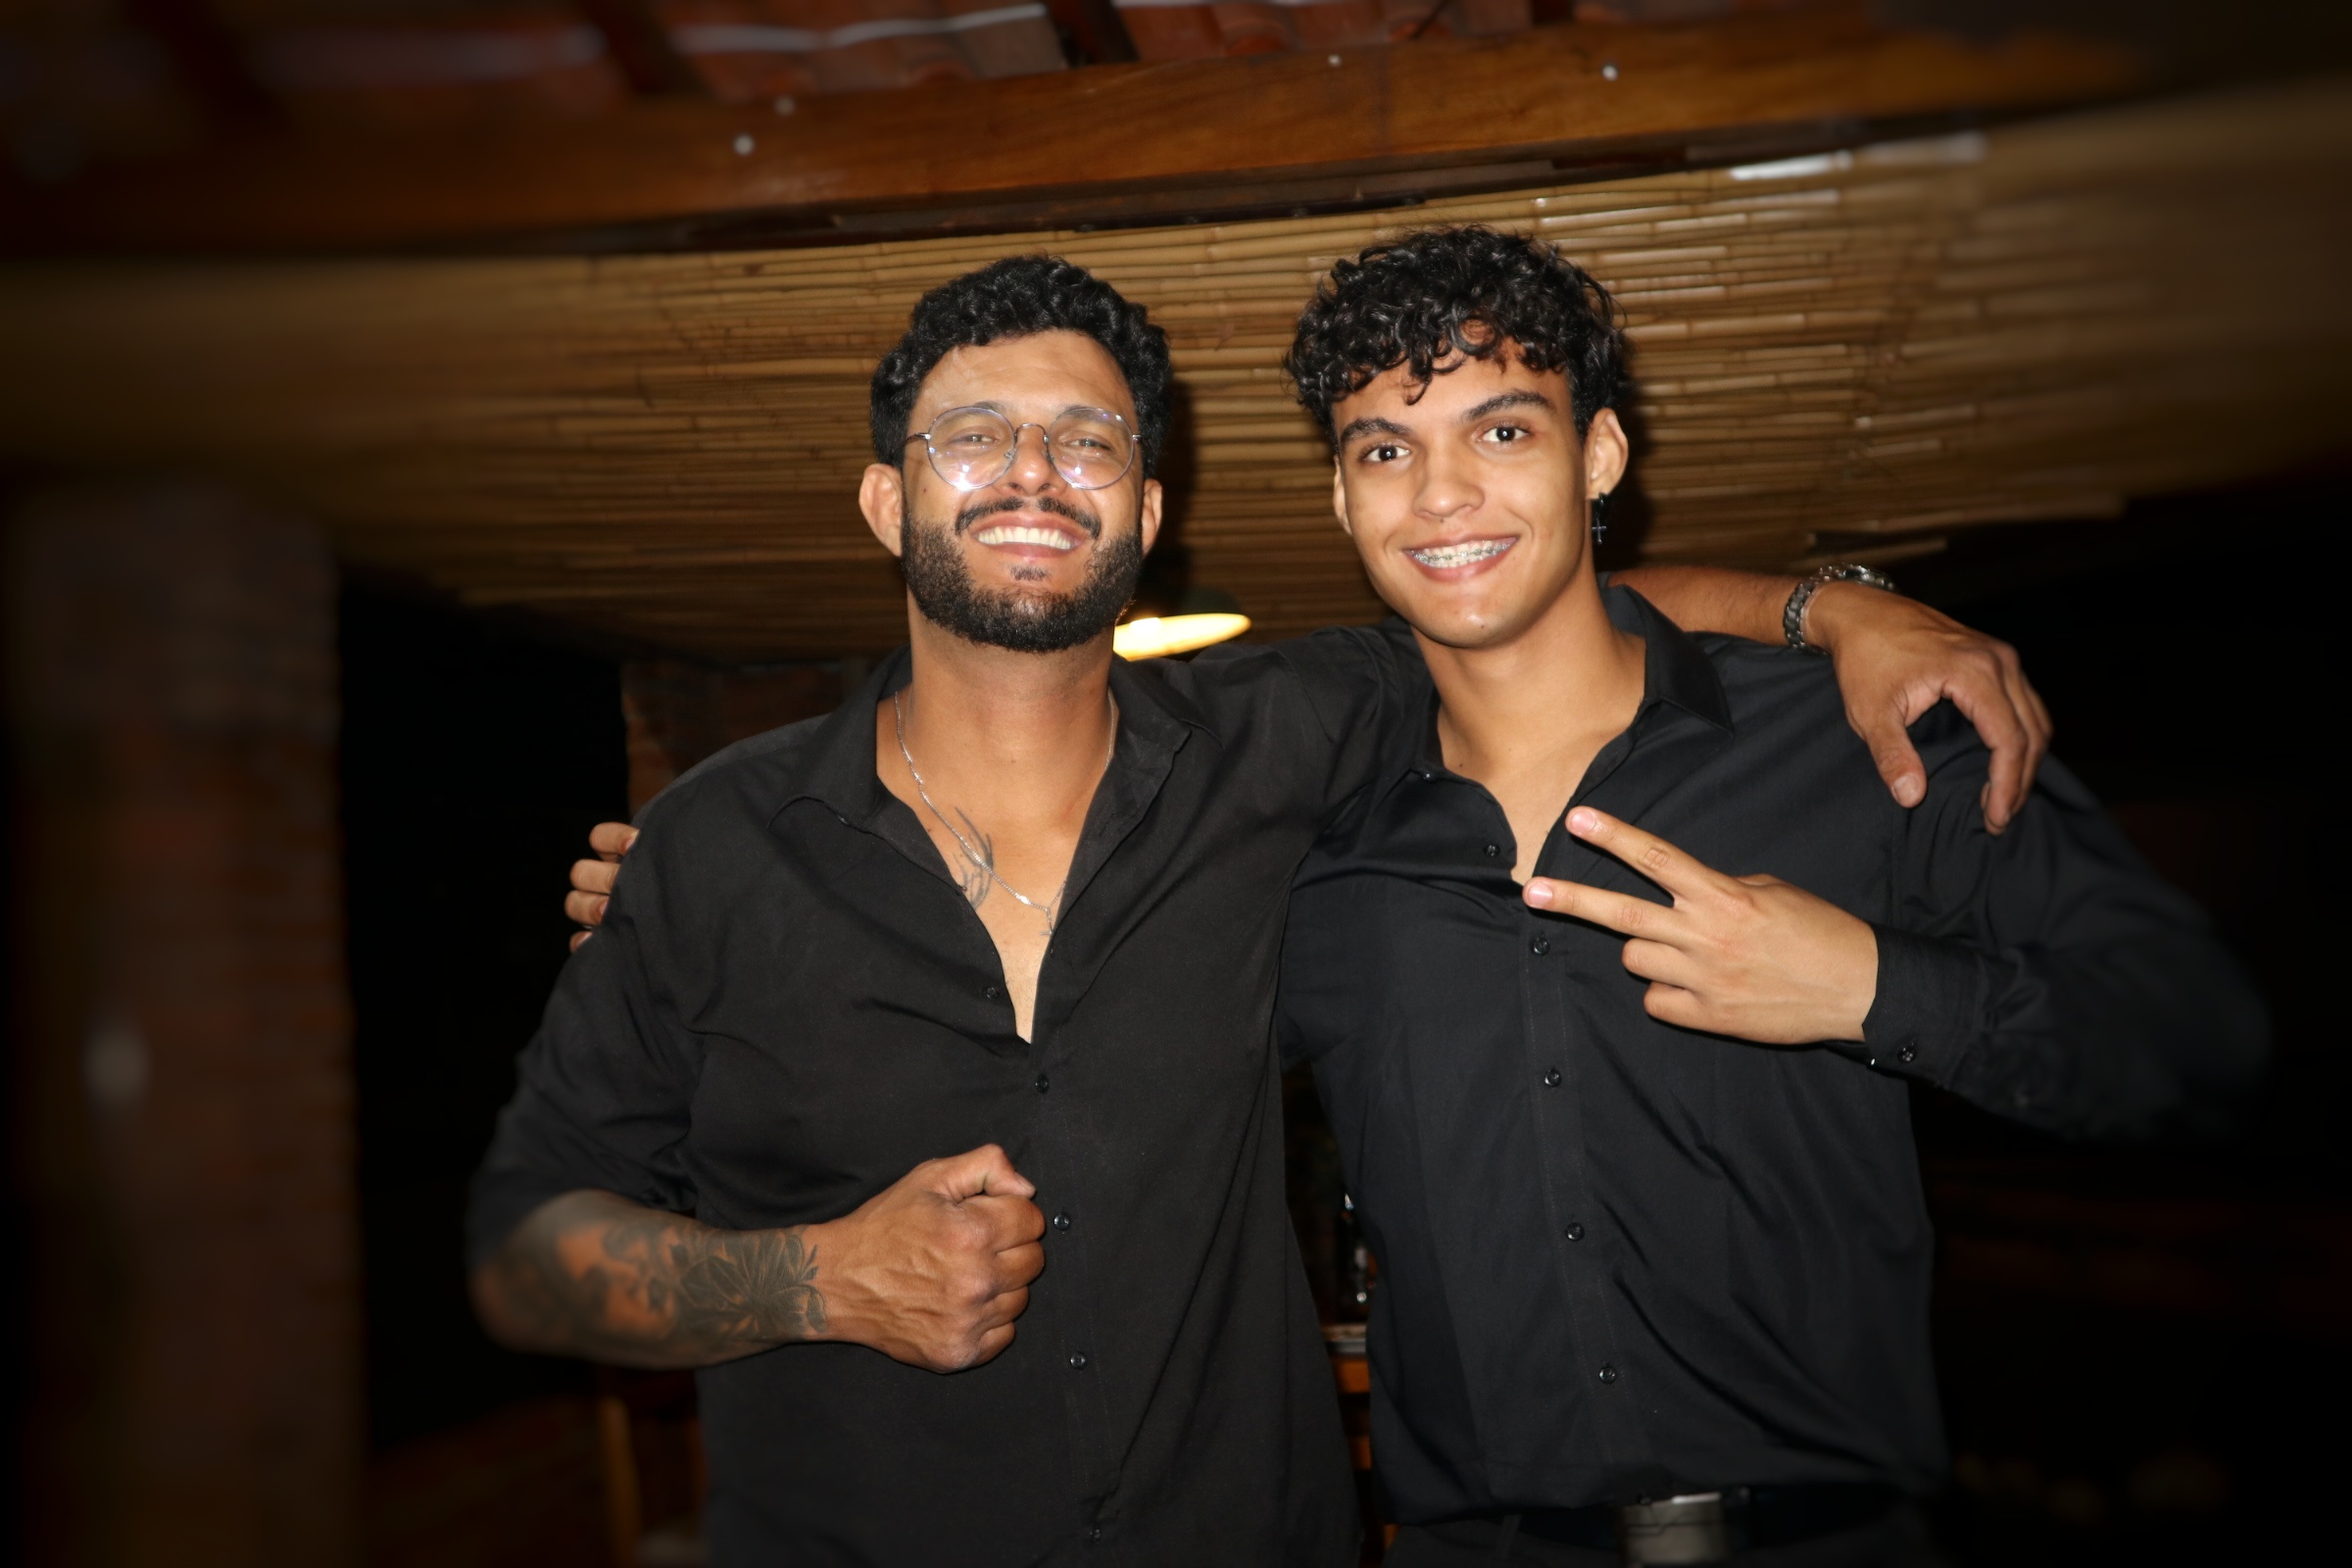
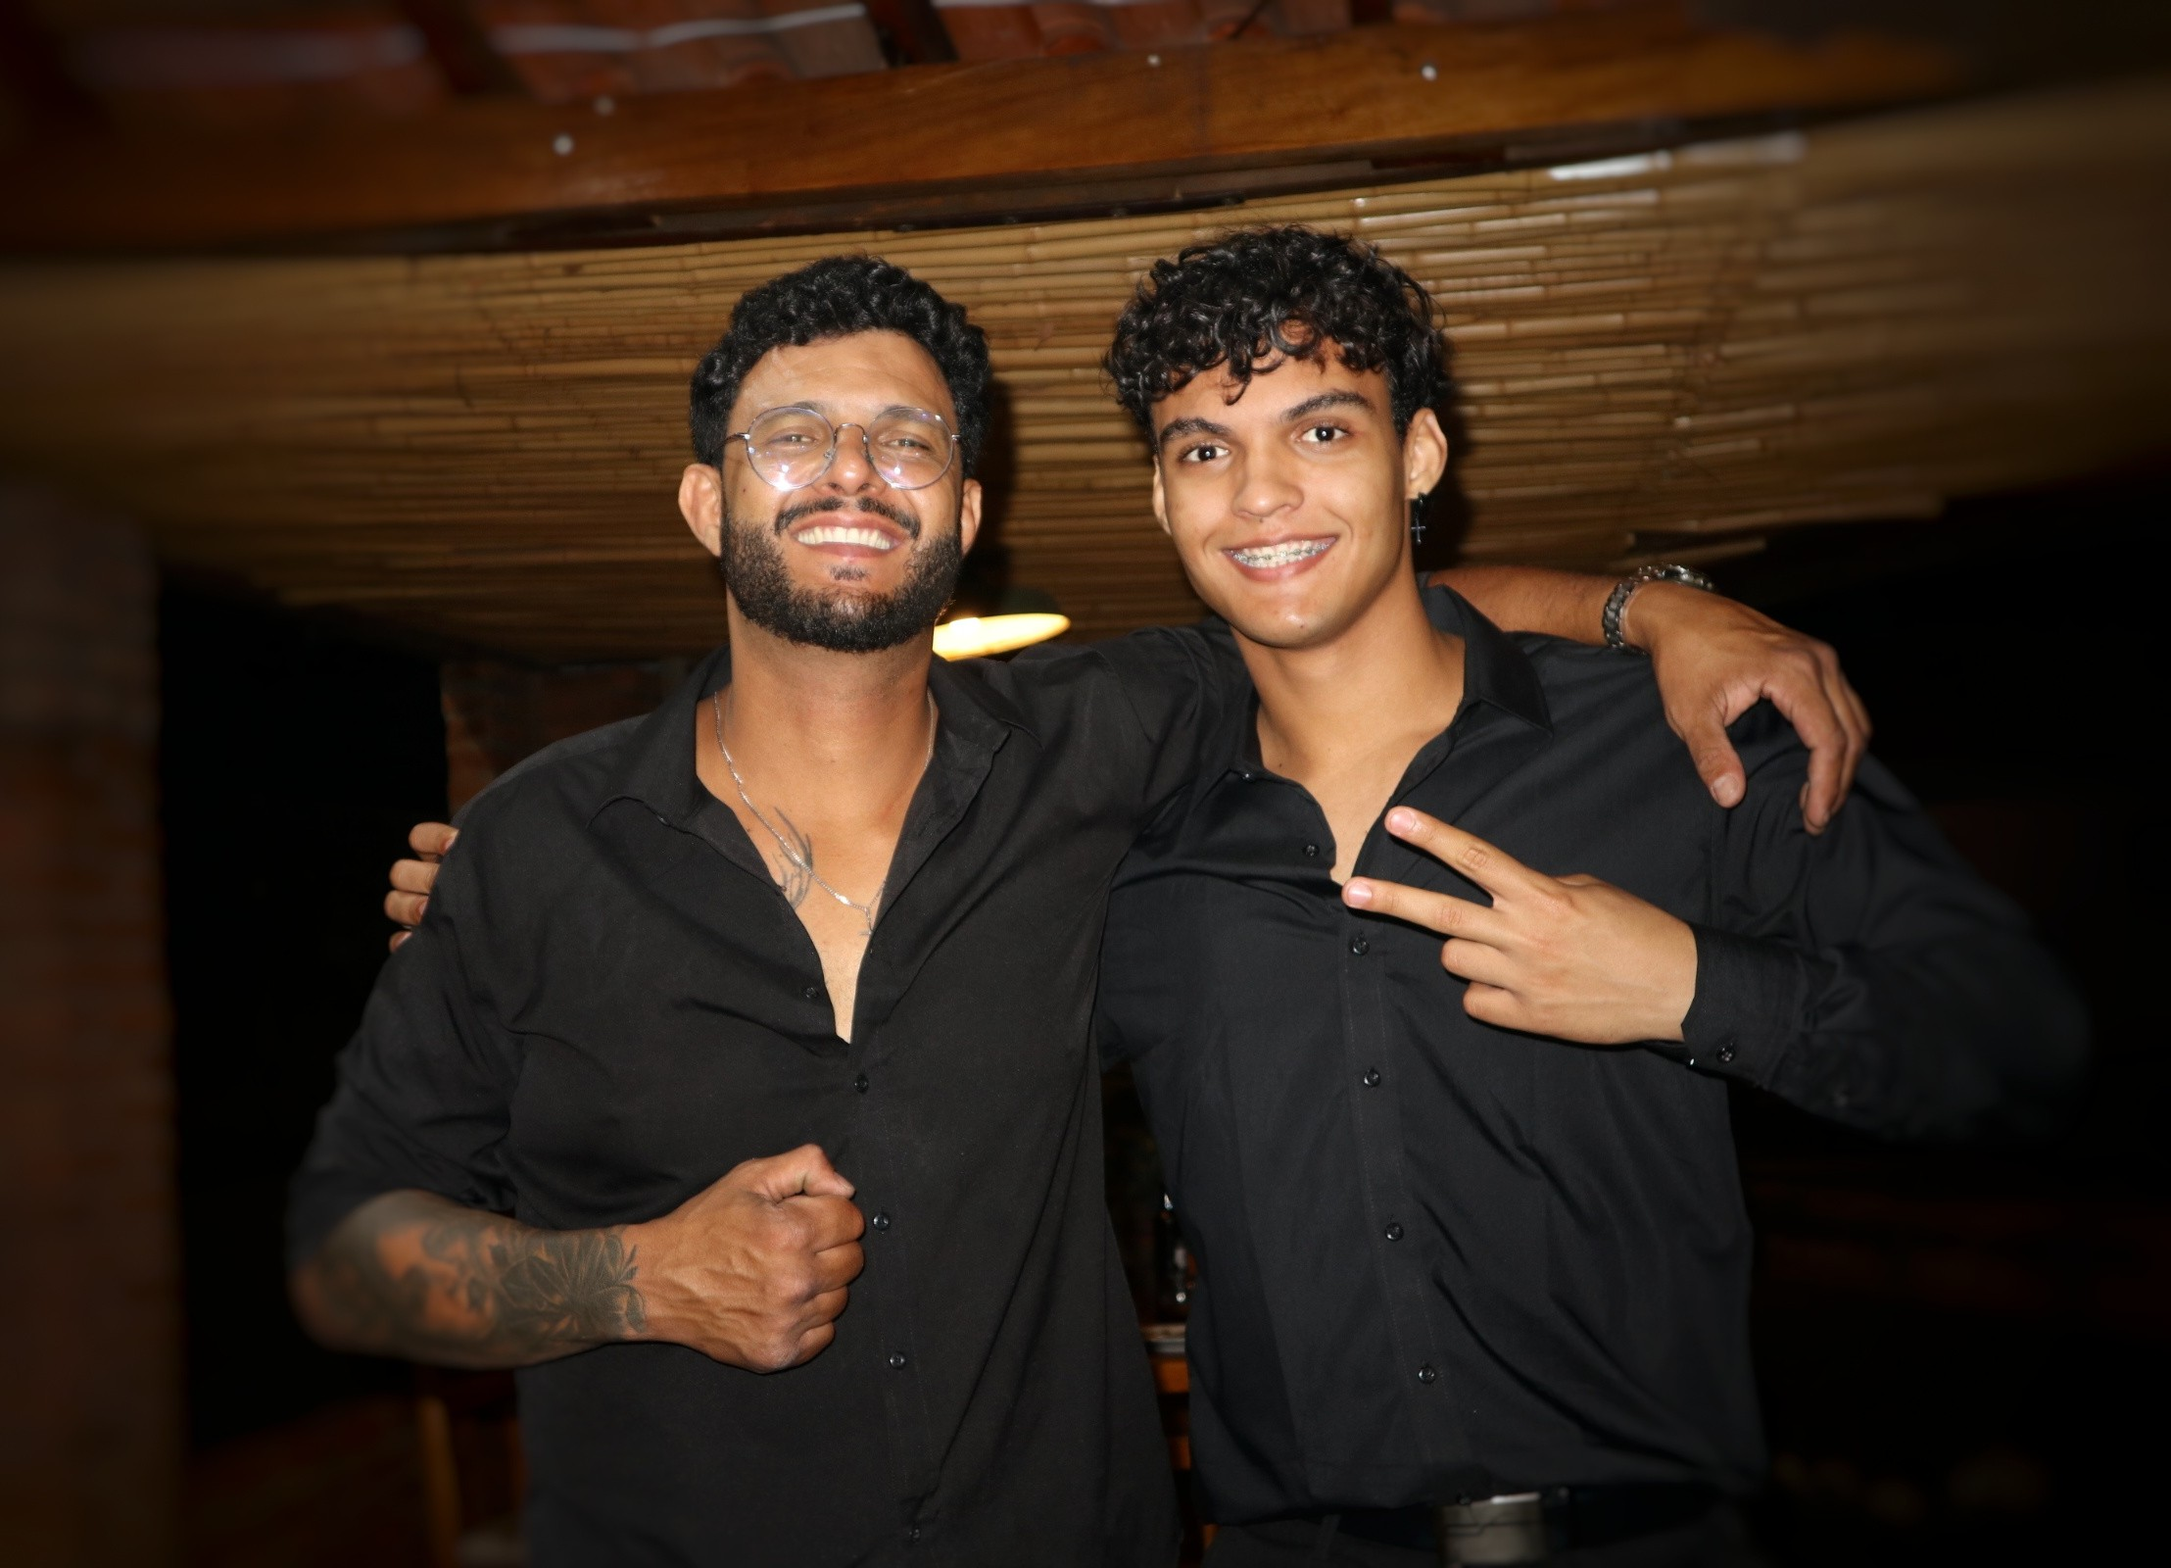
Feat: Atualizacoes gerais

diff --git a/src/components/Header.jsx b/src/components/Header.jsx
@@ -1,22 +1,59 @@
-import React from 'react';
+import React, { useState, useEffect } from 'react';
 
 const Header = () => {
+  const [isVisible, setIsVisible] = useState(true);
+  const [lastScrollY, setLastScrollY] = useState(0);
+
+  useEffect(() => {
+    const handleScroll = () => {
+      const currentScrollY = window.scrollY;
+      
+      if (currentScrollY > lastScrollY && currentScrollY > 50) {
+        setIsVisible(false);
+      } else {
+        setIsVisible(true);
+      }
+      
+      setLastScrollY(currentScrollY);
+    };
+
+    window.addEventListener('scroll', handleScroll);
+    return () => window.removeEventListener('scroll', handleScroll);
+  }, [lastScrollY]);
+
   return (
-    <header className="fixed top-0 left-0 right-0 z-50 bg-[#050505]/80 backdrop-blur-md border-b border-white/10 transition-all duration-300">
-      <div className="mx-auto flex h-16 md:h-20 max-w-7xl items-center justify-between px-4 md:px-6">
+    <header 
+      className={`fixed top-0 left-0 right-0 z-50 bg-[#050505]/80 backdrop-blur-md border-b border-white/10 transition-transform duration-300 ease-in-out ${
+        isVisible ? 'translate-y-0' : '-translate-y-full'
+      }`}
+    >
+      {/* Reduzi o padding nas laterais (px-3 md:px-6) para colar os itens mais nas bordas da tela */}
+      <div className="w-full flex h-16 md:h-20 items-center justify-between px-3 md:px-6">
         
         <div className="flex items-center">
-          <a href="#inicio" className="transition-transform active:scale-95">
-            <img src="/logo-branca.png" alt="Logo" className="h-8 md:h-12 w-auto object-contain" />
+          <a href="#inicio" className="flex items-center gap-3 md:gap-4 transition-transform active:scale-95">
+            {/* Logo principal */}
+            <img 
+              src="/logo-branca.png" 
+              alt="Logo Brunno & Rodrigues" 
+              className="h-8 md:h-16 w-auto object-contain brightness-0 invert" 
+            />
+            
+            {/* Bordão com margem inferior para subir um pouquinho */}
+            <img 
+              src="/bordao-brancoc.png" 
+              alt="Bordão" 
+              className="h-10 md:h-14 w-auto object-contain brightness-0 invert opacity-90 hidden sm:block mb-1 md:mb-3" 
+            />
           </a>
         </div>
         
         <nav>
           <a 
             href="#contato" 
-            className="rounded-full bg-white px-4 py-2 md:px-6 md:py-2.5 text-[10px] md:text-sm font-bold text-black uppercase tracking-tight"
+            className="rounded-full bg-white px-5 py-2 md:px-6 md:py-2.5 text-xs md:text-sm font-bold text-black uppercase tracking-tight hover:bg-gray-200 transition-colors"
           >
-            Contratar
+            Contrate-nos
           </a>
         </nav>
         

diff --git a/src/components/Hero.jsx b/src/components/Hero.jsx
@@ -5,34 +5,29 @@ const Hero = () => {
     <section className="relative flex h-screen w-full flex-col items-center justify-center overflow-hidden bg-[#050505]" id="inicio">
       
       <div className="absolute inset-0 z-0">
+        {/* Posição da foto mantida */}
         <img 
           src="/cantores.jpeg" 
           alt="" 
-          className="w-full h-full object-cover object-top opacity-50 md:opacity-60" 
-        />
+          className="w-full h-full object-cover object-[49%_15%] md:object-[10%_15%] opacity-50 md:opacity-60" 
+          />
         <div className="absolute inset-0 bg-gradient-to-b from-black/20 via-black/40 to-[#050505]"></div>
       </div>
 
-      <div className="relative z-10 flex flex-col items-center justify-center mt-10 px-4 w-full text-center">
+      {/* Diminuí a margem superior (mt-60 md:mt-72) para subir a logo um pouco */}
+      <div className="relative z-10 flex flex-col items-center justify-center mt-60 md:mt-72 px-4 w-full text-center">
         <h1 className="sr-only">Brunno & Rodrigues</h1>
         
         <img 
           src="/logo-branca.png" 
           alt="Brunno & Rodrigues" 
-          className="w-48 sm:w-64 md:w-[380px] h-auto drop-shadow-2xl"
-        />
+          className="w-48 sm:w-60 md:w-[320px] lg:w-[380px] h-auto drop-shadow-2xl"
+          />
         
-        <img 
-          src="/bordao-branco.png" 
-          alt="Bordão Brunno & Rodrigues" 
-          className="w-32 sm:w-40 md:w-[200px] h-auto opacity-90 mt-4 md:mt-6"
-        />
       </div>
 
-      <a href="#redes" className="absolute bottom-8 left-1/2 flex -translate-x-1/2 flex-col items-center gap-2 z-20 opacity-60">
-        <span className="text-[9px] sm:text-xs font-medium uppercase tracking-[0.2em] text-white">
-          Deslize
-        </span>
+      <a href="#redes" className="absolute bottom-8 left-1/2 flex -translate-x-1/2 flex-col items-center gap-2 z-20 opacity-60 hover:opacity-100 transition-opacity">
+        {/* Removido o texto "Deslize", mantendo apenas a seta */}
         <svg xmlns="http://www.w3.org/2000/svg" width="20" height="20" viewBox="0 0 24 24" fill="none" stroke="currentColor" strokeWidth="2" strokeLinecap="round" strokeLinejoin="round" className="text-white animate-bounce">
           <path d="M12 5v14"></path>
           <polyline points="19 12 12 19 5 12"></polyline>
